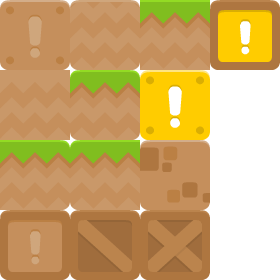
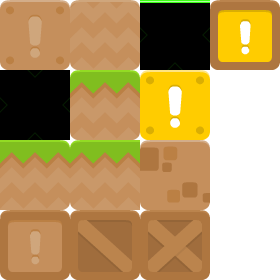
platform tiles

Changed region(s): [[0.4857, 0.0, 0.7714, 0.2571], [0.0, 0.2286, 0.2571, 0.5143]]

diff --git a/src/scenes/MenuScene.js b/src/scenes/MenuScene.js
@@ -46,7 +46,7 @@ export default class MenuScene extends Phaser.Scene {
         this.groundLayer.setCollisionByExclusion([-1]);
         this.physics.world.bounds.width = this.groundLayer.width;
         this.physics.world.bounds.height = this.groundLayer.height;
-        this.cameras.main.setBackgroundColor(0xffc0cb);
+        this.cameras.main.setBackgroundColor(0x000000);
         this.cursors = this.input.keyboard.createCursorKeys();
     }
 
